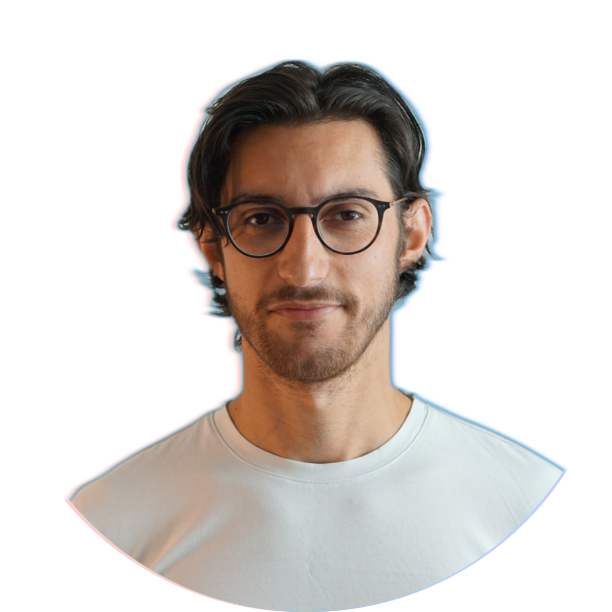
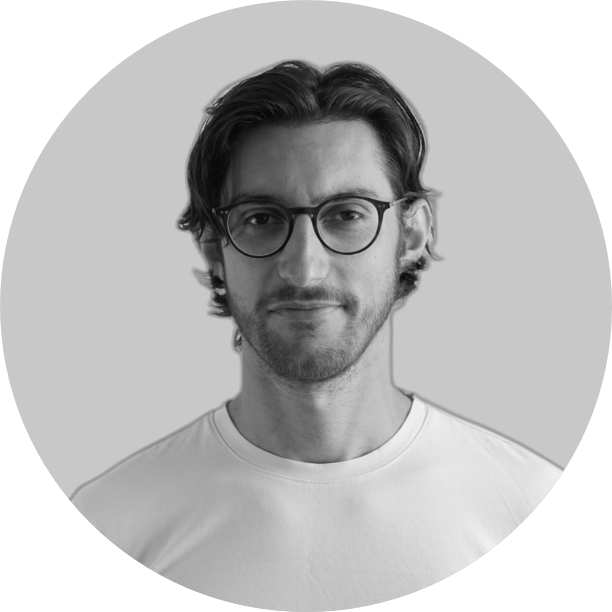
about section global design

diff --git a/CSS/style.css b/CSS/style.css
@@ -214,3 +214,63 @@ section {
 .home-networks a:hover::before {
     width: 100%;
 }
+
+.about {
+    display: flex;
+    justify-content: center;
+    align-items: center;
+    flex-direction: column;
+    gap: 2rem;
+    background: var(--second-bg-color);
+    padding-bottom: 6rem;
+}
+
+.heading {
+    font-size: 5rem;
+    margin-bottom: 3rem;
+    text-align: center;
+
+}
+
+span {
+    color: var(--main-color);
+}
+
+.about-img {
+    position: relative;
+    width: 25rem;
+    height: 25rem;
+    border-radius: 50%;
+    display: flex;
+    justify-content: center;
+    align-items: center;
+}
+
+/* encerclement de la photo de profil en suspend*/
+.about-img img {
+    width: 90%;
+    border-radius: 50%;
+    border-radius: .2rem solid var(--main-color);
+}
+
+.about-content {
+    text-align: center;
+}
+
+.about-content h3 {
+    font-size: 2.6rem;
+}
+
+.about-content p {
+    font-size: 1.6rem;
+    margin: 2rem 0 3rem;
+}
+
+.btn-box.btns {
+    display: inline-block;
+    width: 15rem;
+}
+
+.btn-box.btns a::before {
+    background: var(--second-bg-color);
+}

diff --git a/index.html b/index.html
@@ -63,7 +63,7 @@
                 Ipsa reprehenderit maiores magni tenetur perspiciatis deleniti quia distinctio minima sequi cum?</p>
 
             <div class="btn-box btns">
-                <a href="#" class="btn"></a>
+                <a href="#" class="btn">Read More</a>
             </div>
         </div>
 
